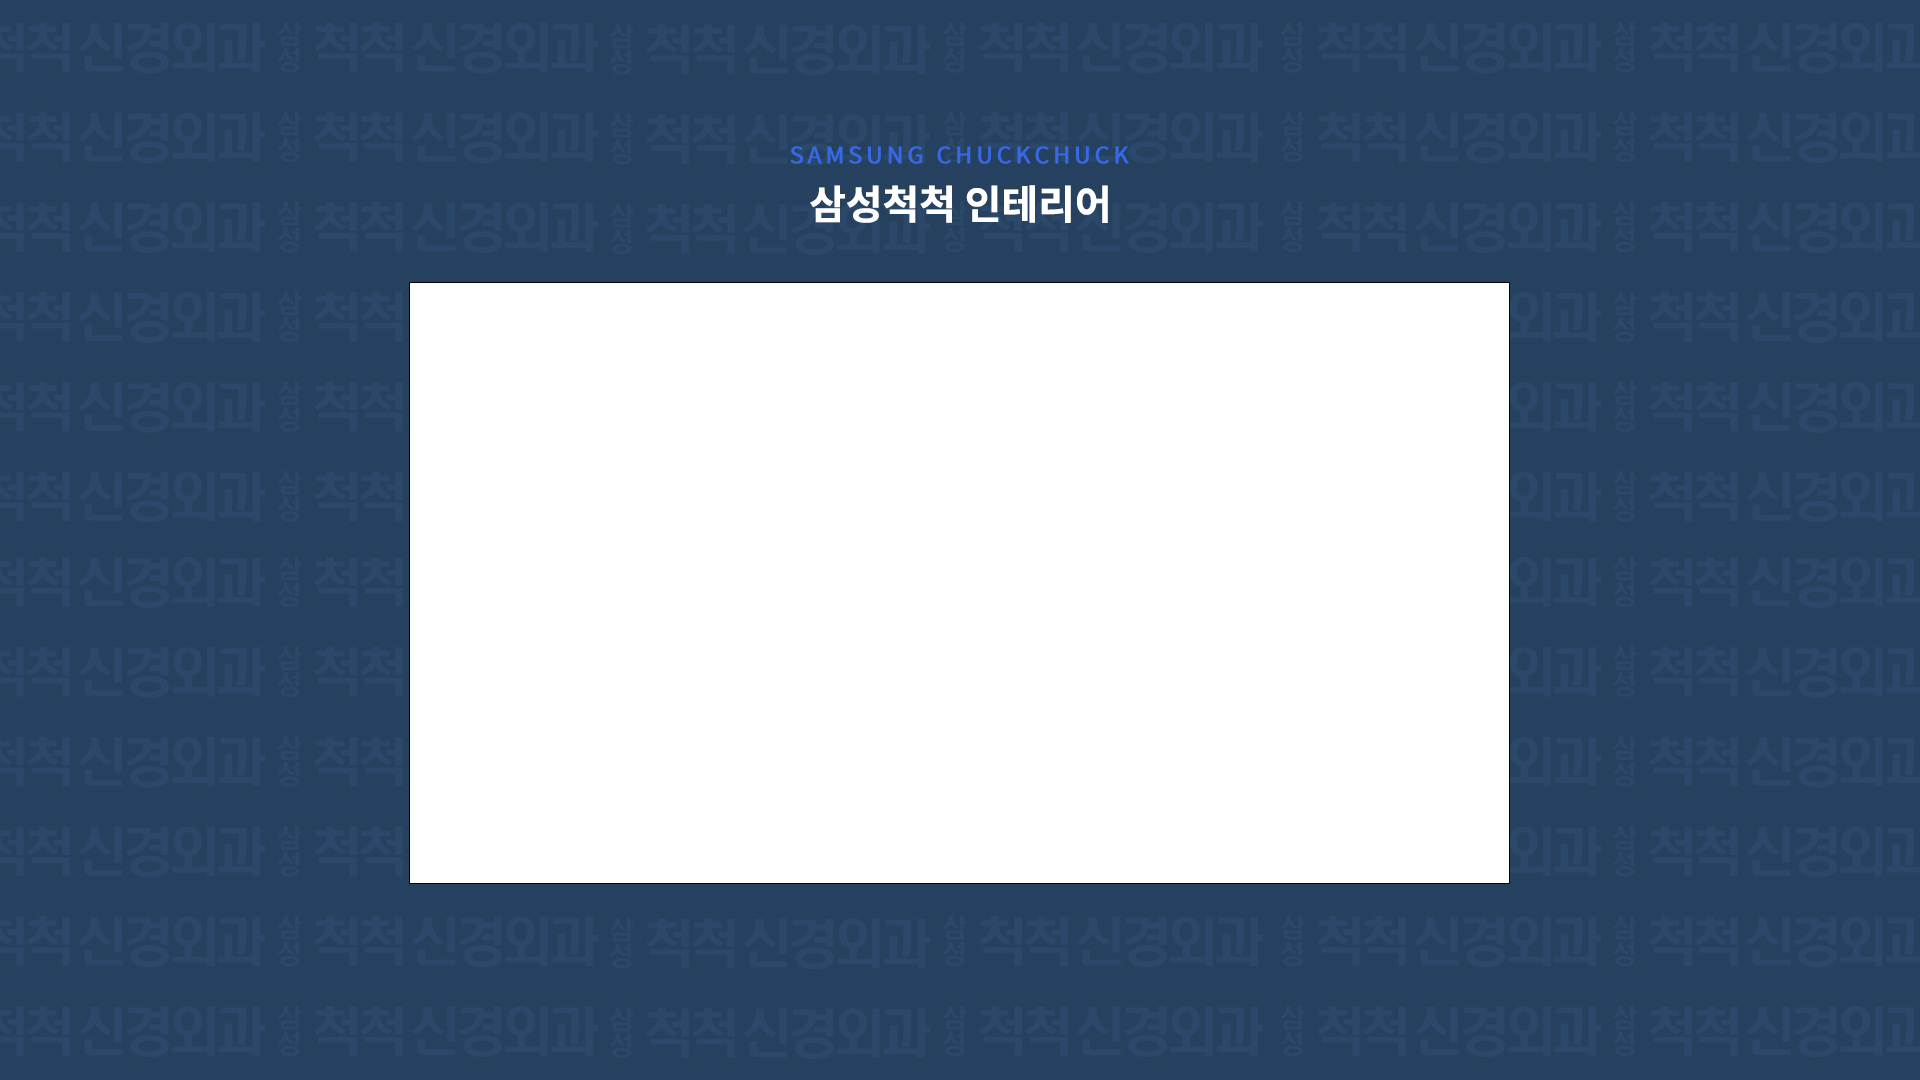
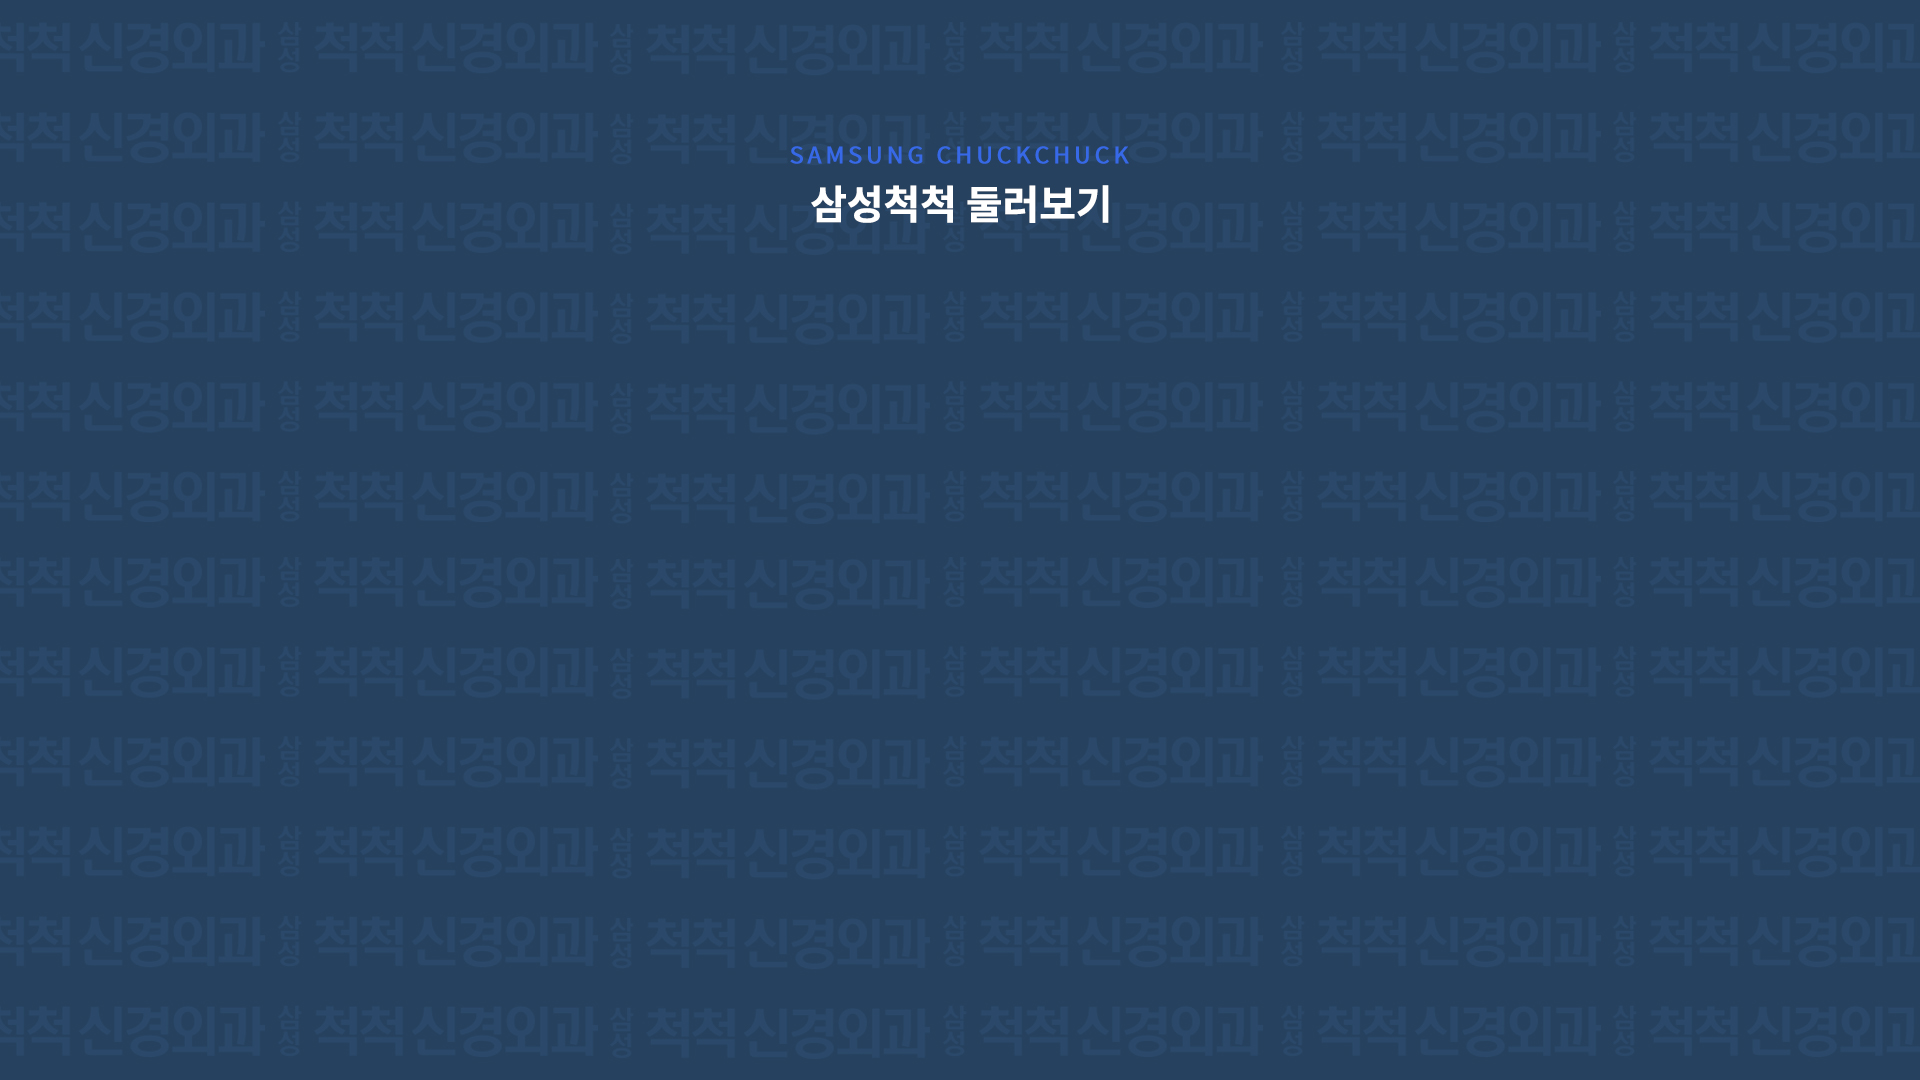
Add files via upload

diff --git a/index.html b/index.html
@@ -7,6 +7,35 @@
     <title>삼성척척 랜딩</title>
     <link rel="stylesheet" href="./css/style.css">
     <script src="https://ajax.aspnetcdn.com/ajax/jQuery/jquery-3.3.1.min.js"></script>
+         <!--GSAP-->
+         <script src="https://cdnjs.cloudflare.com/ajax/libs/gsap/3.6.0/gsap.min.js"></script>
+
+         <!-- jquery cdn -->
+         <script src="https://code.jquery.com/jquery-3.6.3.js" integrity="sha256-nQLuAZGRRcILA+6dMBOvcRh5Pe310sBpanc6+QBmyVM=" crossorigin="anonymous"></script>
+ 
+         <!-- bootstrap cdn -->
+         <link rel="stylesheet" href="https://cdn.jsdelivr.net/npm/bootstrap-icons@1.10.3/font/bootstrap-icons.css">
+     
+         <!--swiper-->
+         <link rel="stylesheet" href="https://unpkg.com/swiper/swiper-bundle.min.css" />
+         <script src="https://unpkg.com/swiper/swiper-bundle.js"></script>
+     
+         <!--AOS-->
+         <script src="https://unpkg.com/aos@2.3.1/dist/aos.js"></script>
+         <link href="https://unpkg.com/aos@2.3.1/dist/aos.css" rel="stylesheet">
+
+         <!--kakaomap-->
+         <script charset="UTF-8" class="daum_roughmap_loader_script" src="http://dmaps.daum.net/map_js_init/roughmapLoader.js"></script>
+ 
+ 
+         <link rel="stylesheet" type="text/css" href="//cdn.jsdelivr.net/npm/slick-carousel@1.8.1/slick/slick.css"/>
+ 
+         <script type="text/javascript" src="//cdn.jsdelivr.net/npm/slick-carousel@1.8.1/slick/slick.min.js"></script>
+                 
+ 
+ 
+         <!--구글아이콘-->
+         <link rel="stylesheet" href="https://fonts.googleapis.com/css2?family=Material+Symbols+Outlined:opsz,wght,FILL,GRAD@48,400,0,0" />
     <script src="./js/main.js"></script>
 </head>
 <body>
@@ -37,9 +66,25 @@
             <img src="./images/images (1).jpg" alt="원장">
             <img src=" ./images/images (2).jpg" alt="소개">
             <img src="./images/images (5).jpg" alt="도수치료">
-            <img src="./images/interior_bg.png" alt="">
+
+            <div class="interior">
+                <div class="swiper">
+                    <div class="swiper-wrapper">
+                        <div class="swiper-slide"><img src="./images/interior (1).jpg" alt=""></div>
+                        <div class="swiper-slide"><img src="./images/interior (2).jpg" alt=""></div>
+                        <div class="swiper-slide"><img src="./images/interior (3).jpg" alt=""></div>
+                        <div class="swiper-slide"><img src="./images/interior (4).jpg" alt=""></div>
+                    </div><!--swiper--wrapper-->
+                <div class="swiper-pagination"></div>
+                </div><!--swiper-->
+            </div>
+
             <div class="map">
                 <img src="./images/map.jpg" alt="">
+                <div class="kakaomap">
+                    <a href="https://map.kakao.com/?urlX=464580&urlY=1128175&urlLevel=2&map_type=TYPE_MAP&map_hybrid=false" target="_blank"><img width="700" height="420"
+                        src="https://map2.daum.net/map/mapservice?FORMAT=PNG&SCALE=1.25&MX=464580&MY=1128175&S=0&IW=504&IH=310&LANG=0&COORDSTM=WCONGNAMUL&logo=kakao_logo" style="border:1px solid #ccc"></a><strong style="float: left;"></strong><a style="font-size:12px;text-decoration:none;float:left;height:15px;padding-top:1px;line-height:15px;color:#000" target="_blank" href="https://map.kakao.com/?urlX=464580&urlY=1128175&urlLevel=2&map_type=TYPE_MAP&map_hybrid=false"></a></div>            
+                </div>
             </div><!--map-->
             <img src="./images/footer.jpg" alt="">
          </div><!--cnt-->        

diff --git a/css/style.css b/css/style.css
@@ -139,3 +139,40 @@
     position:relative;
     left: 50%;
     transform: translateX(-50%);}
+
+
+
+
+    /**interior***/
+
+    .interior {
+        background-image: url(../images/images\ \(4\).jpg);
+        background-size: cover;
+        background-position: center;
+        height: 980px;
+        /* display: flex; */
+        align-items: center;
+
+    }
+
+    .swiper {
+        width: 800px;
+        height: 400px;
+        overflow: hidden;
+        margin: 0 auto;
+        position: relative;
+        top: 350px;
+        display: flex;
+    }
+
+
+
+    .map {
+        position: relative;
+    }
+    .kakaomap {
+        position: absolute;
+        top: 400px;
+        left: 50%;
+        transform: translateX(-50%);
+    }

diff --git a/js/main.js b/js/main.js
@@ -6,3 +6,27 @@ $(document).ready(function(){
       $("#main_visual").css("height","900px");
    }
 });
+
+$(document).ready(function(){
+   const swiper = new Swiper('.swiper', {
+     spaceBetween: 30,
+     centeredSlides: true,
+
+       autoplay: {
+         delay: 3500,
+         disableOnInteraction: false,
+       },
+       
+       direction: 'horizontal',  // 효과
+       loop: true,
+
+       effect: 'slide',
+
+       pagination: {
+         el: '.swiper-pagination',
+         type: 'bullets',
+         clickable : true,
+       },
+       
+     });
+});
